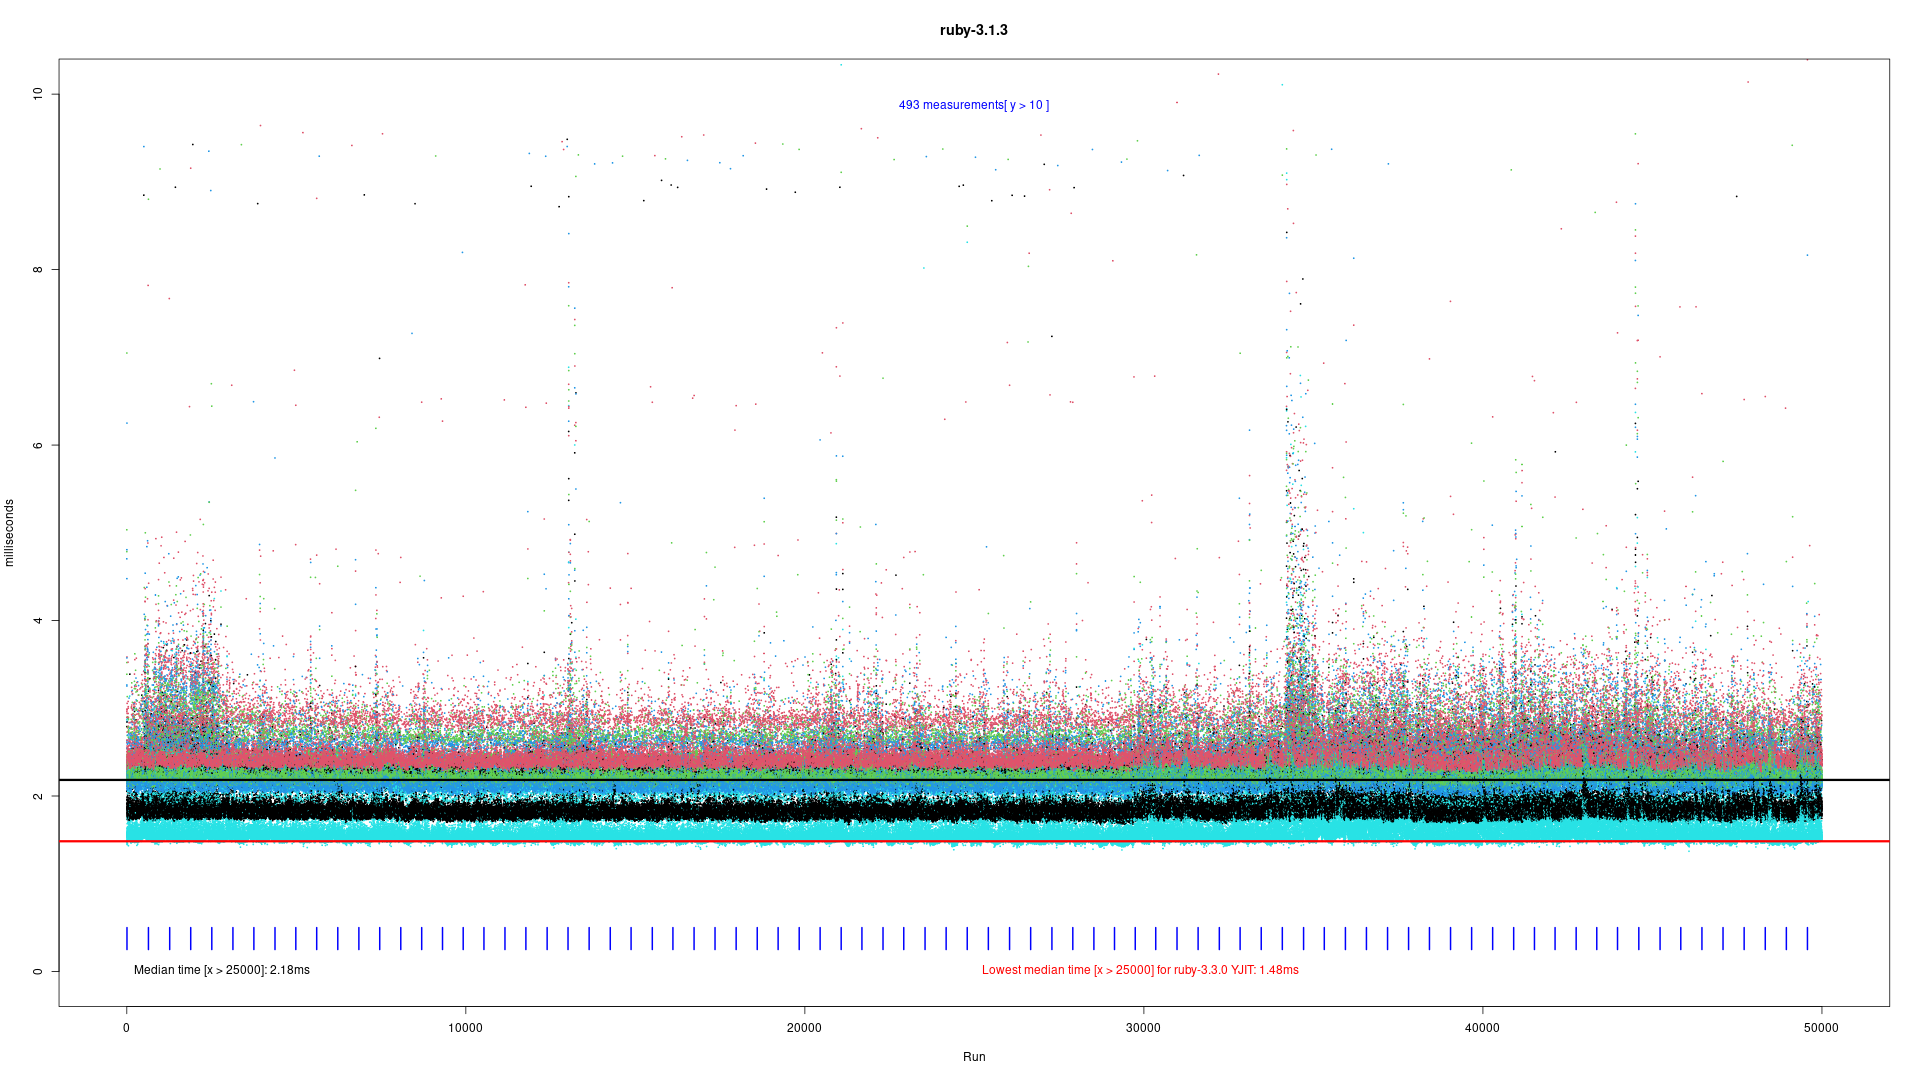
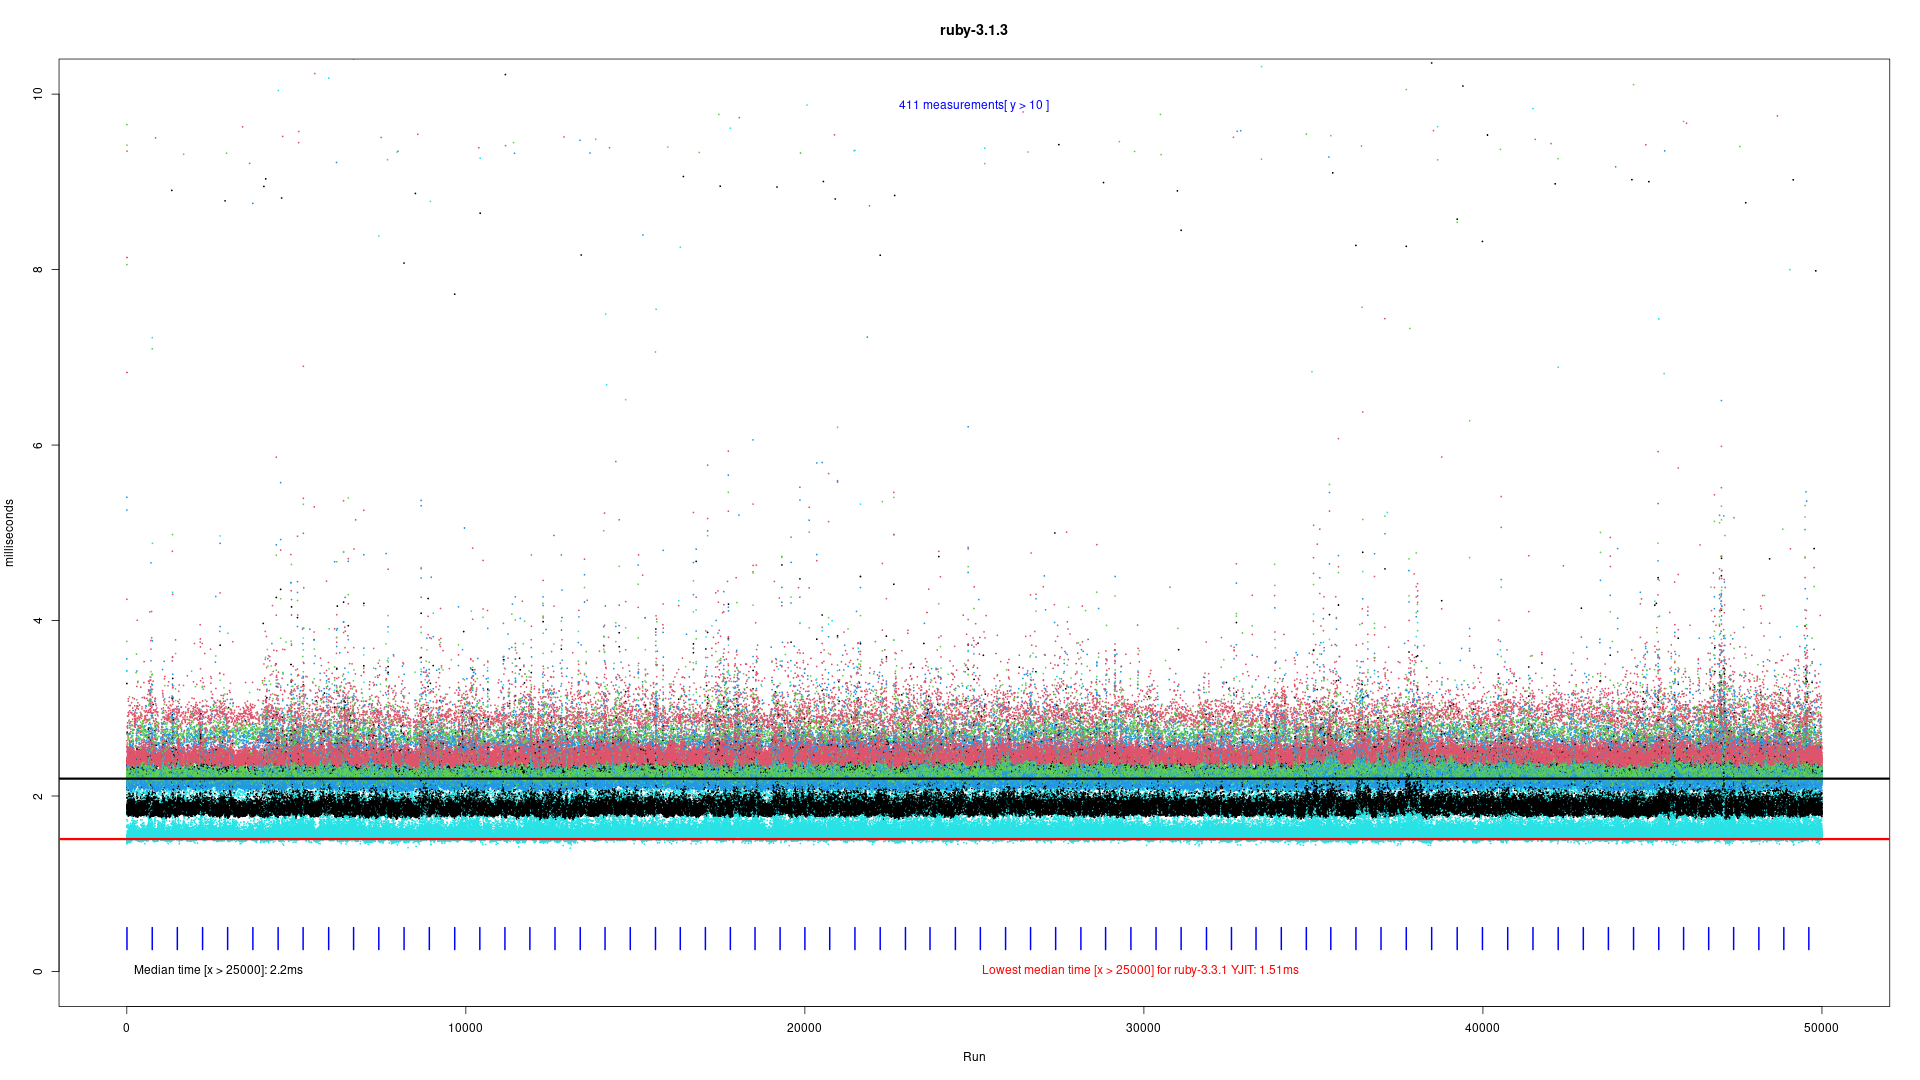
Updated results for Rails app MRI Rubies 3.0 - 3.4, reran tests for all rubies

diff --git a/data/rails_devise/README.md b/data/rails_devise/README.md
@@ -12,27 +12,29 @@ Five url's were included in the test:
 5. index-page with bad cookie (cyan)
 
 ## System
-OS: Linux 5.15.0-91-generic #101-Ubuntu SMP Tue Nov 14 13:30:08 UTC 2023 x86_64 GNU/Linux  
+OS: Linux 5.15.0-126-generic #136-Ubuntu SMP Wed Nov 6 10:38:22 UTC 2024 x86_64 GNU/Linux  
 CPU: AuthenticAMD AMD Ryzen 7 5800X 8-Core Processor  
 
 ## Tested Rubies
 | Ruby                      | JIT  | Mem start |   Mem end |   Runtime |      Mean |    Median |   Std.Dev |     Slow |   Errors |        N |  GC runs |
 | ------------------------- | ---- | --------: | --------: | --------: | --------: | --------: | --------: |--------: | -------: | -------: | -------: |
-| ruby-3.0.4                |      |      65Mb |      88Mb |      554s |    2.25ms |    2.26ms |    0.66ms |      892 |        0 |   750000 |      116 |
-| ruby-3.1.3                |      |      66Mb |      85Mb |      536s |    2.15ms |    2.18ms |    0.56ms |      632 |        0 |   750000 |       81 |
-| ruby-3.1.3                | YJIT |      81Mb |     113Mb |      470s |    1.86ms |    1.88ms |    0.48ms |      475 |        0 |   750000 |       48 |
-| ruby-3.2.2                |      |      70Mb |      93Mb |      517s |    2.06ms |    2.11ms |    0.44ms |      285 |        0 |   750000 |       30 |
-| ruby-3.2.2                | YJIT |      81Mb |     130Mb |      419s |    1.69ms |    1.68ms |    0.43ms |      252 |        0 |   750000 |       20 |
-| ruby-3.3.0                |      |      70Mb |      88Mb |      523s |    2.09ms |    2.12ms |    0.41ms |      111 |        0 |   750000 |        0 |
-| ruby-3.3.0                | YJIT |      78Mb |     116Mb |      372s |    1.47ms |    1.48ms |    0.35ms |      128 |        0 |   750000 |        1 |
+| ruby-3.0.4                |      |      67Mb |      90Mb |      561s |    2.23ms |    2.28ms |     0.6ms |      867 |        0 |   750000 |      104 |
+| ruby-3.1.3                |      |      67Mb |      86Mb |      535s |    2.13ms |     2.2ms |    0.52ms |      524 |        0 |   750000 |       68 |
+| ruby-3.1.3                | YJIT |      79Mb |     112Mb |      467s |    1.85ms |    1.89ms |    0.55ms |      669 |        0 |   750000 |       77 |
+| ruby-3.2.2                |      |      75Mb |     101Mb |      524s |    2.09ms |    2.15ms |    0.44ms |      204 |        0 |   750000 |       22 |
+| ruby-3.2.2                | YJIT |      83Mb |     131Mb |      425s |    1.69ms |     1.7ms |    0.47ms |      267 |        0 |   750000 |       23 |
+| ruby-3.3.1                |      |      73Mb |      91Mb |      520s |    2.08ms |    2.15ms |    0.37ms |       82 |        0 |   750000 |        0 |
+| ruby-3.3.1                | YJIT |      78Mb |     116Mb |      378s |     1.5ms |    1.51ms |    0.36ms |      128 |        0 |   750000 |        1 |
+| ruby-3.4.1                |      |      68Mb |      92Mb |      544s |    2.16ms |    2.19ms |     0.4ms |      111 |        0 |   750000 |        8 |
+| ruby-3.4.1                | YJIT |      75Mb |     115Mb |      394s |    1.57ms |    1.53ms |    0.44ms |      154 |        0 |   750000 |        1 |
 
 ## Winners
 
-- Ruby with lowest __slow__ response-count (> 7ms): __ruby-3.3.0__ (111x)
-- Ruby with lowest __median__* response-time: __ruby-3.3.0 YJIT__ (1.48ms)
-- Ruby with lowest __standard deviation__ response-time: __ruby-3.3.0 YJIT__ (0.35ms)
-- Ruby with lowest __mean__* response-time: __ruby-3.3.0 YJIT__ (1.47ms)
-- Ruby with lowest __memory__ use: __ruby-3.1.3__ (85Mb)
+- Ruby with lowest __slow__ response-count (> 7ms): __ruby-3.3.1__ (82x)
+- Ruby with lowest __median__* response-time: __ruby-3.3.1 YJIT__ (1.51ms)
+- Ruby with lowest __standard deviation__ response-time: __ruby-3.3.1 YJIT__ (0.36ms)
+- Ruby with lowest __mean__* response-time: __ruby-3.3.1 YJIT__ (1.5ms)
+- Ruby with lowest __memory__ use: __ruby-3.1.3__ (86Mb)
 
 \* Mean and median are calculated after warmup (x > N/2).
 
@@ -42,11 +44,15 @@ CPU: AuthenticAMD AMD Ryzen 7 5800X 8-Core Processor
 
 ## Histograms of response-times of all tested Rubies
 Showing a single tested uri and the most occurring response-times after warmup (x > N/2)
-![Histograms of response-times of all tested Rubies](/data/rails_devise/plots/rails_devise_01_histogram.png "Histograms of response-times of all tested Rubies")
+![Histograms of response-times of all tested Rubies](/data/rails_devise/plots/rails_devise_0_histogram.png "Histograms of response-times of all tested Rubies")
+
+## Memory use of all tested Rubies
+Logged after a fixed interval of measurements (1,000). Each run is shown in a different color
+![Memory use of all tested Rubies](/data/rails_devise/plots/rails_devise_0_memory.png "Memory use of all tested Rubies")
 
 ## Scatter-plots
 These scatter-plots show the response time of individual calls as dots. Note that many dots may overlap each other.  
-Vertical blue lines near the X-axis indicate major garbage collection runs (of Run-ID 1, only when there are less than 100 GC runs).
+Vertical blue lines near the X-axis indicate major garbage collection runs (of Run-ID 1, but only when there are less than 100 GC runs).
 ## Response-times for: ruby-3.0.4
 ![Response-times for: ruby-3.0.4](/data/rails_devise/plots/rails_devise_1_ruby-3.0.4.png "Response-times for: ruby-3.0.4")
 
@@ -62,11 +68,17 @@ Vertical blue lines near the X-axis indicate major garbage collection runs (of R
 ## Response-times for: ruby-3.2.2 YJIT
 ![Response-times for: ruby-3.2.2 YJIT](/data/rails_devise/plots/rails_devise_1_ruby-3.2.2%20YJIT.png "Response-times for: ruby-3.2.2 YJIT")
 
-## Response-times for: ruby-3.3.0
-![Response-times for: ruby-3.3.0](/data/rails_devise/plots/rails_devise_1_ruby-3.3.0.png "Response-times for: ruby-3.3.0")
+## Response-times for: ruby-3.3.1
+![Response-times for: ruby-3.3.1](/data/rails_devise/plots/rails_devise_1_ruby-3.3.1.png "Response-times for: ruby-3.3.1")
 
-## Response-times for: ruby-3.3.0 YJIT
-![Response-times for: ruby-3.3.0 YJIT](/data/rails_devise/plots/rails_devise_1_ruby-3.3.0%20YJIT.png "Response-times for: ruby-3.3.0 YJIT")
+## Response-times for: ruby-3.3.1 YJIT
+![Response-times for: ruby-3.3.1 YJIT](/data/rails_devise/plots/rails_devise_1_ruby-3.3.1%20YJIT.png "Response-times for: ruby-3.3.1 YJIT")
+
+## Response-times for: ruby-3.4.1
+![Response-times for: ruby-3.4.1](/data/rails_devise/plots/rails_devise_1_ruby-3.4.1.png "Response-times for: ruby-3.4.1")
+
+## Response-times for: ruby-3.4.1 YJIT
+![Response-times for: ruby-3.4.1 YJIT](/data/rails_devise/plots/rails_devise_1_ruby-3.4.1%20YJIT.png "Response-times for: ruby-3.4.1 YJIT")
 
 
 ## Detailed scatter-plots
@@ -86,9 +98,15 @@ Same as above but focussing on the most ocurring response times. GC runs are not
 ## Detailed response-times for: ruby-3.2.2 YJIT
 ![Detailed response-times for: ruby-3.2.2 YJIT](/data/rails_devise/plots/rails_devise_2_ruby-3.2.2%20YJIT.png "Detailed response-times for: ruby-3.2.2 YJIT")
 
-## Detailed response-times for: ruby-3.3.0
-![Detailed response-times for: ruby-3.3.0](/data/rails_devise/plots/rails_devise_2_ruby-3.3.0.png "Detailed response-times for: ruby-3.3.0")
+## Detailed response-times for: ruby-3.3.1
+![Detailed response-times for: ruby-3.3.1](/data/rails_devise/plots/rails_devise_2_ruby-3.3.1.png "Detailed response-times for: ruby-3.3.1")
 
-## Detailed response-times for: ruby-3.3.0 YJIT
-![Detailed response-times for: ruby-3.3.0 YJIT](/data/rails_devise/plots/rails_devise_2_ruby-3.3.0%20YJIT.png "Detailed response-times for: ruby-3.3.0 YJIT")
+## Detailed response-times for: ruby-3.3.1 YJIT
+![Detailed response-times for: ruby-3.3.1 YJIT](/data/rails_devise/plots/rails_devise_2_ruby-3.3.1%20YJIT.png "Detailed response-times for: ruby-3.3.1 YJIT")
+
+## Detailed response-times for: ruby-3.4.1
+![Detailed response-times for: ruby-3.4.1](/data/rails_devise/plots/rails_devise_2_ruby-3.4.1.png "Detailed response-times for: ruby-3.4.1")
+
+## Detailed response-times for: ruby-3.4.1 YJIT
+![Detailed response-times for: ruby-3.4.1 YJIT](/data/rails_devise/plots/rails_devise_2_ruby-3.4.1%20YJIT.png "Detailed response-times for: ruby-3.4.1 YJIT")
 
